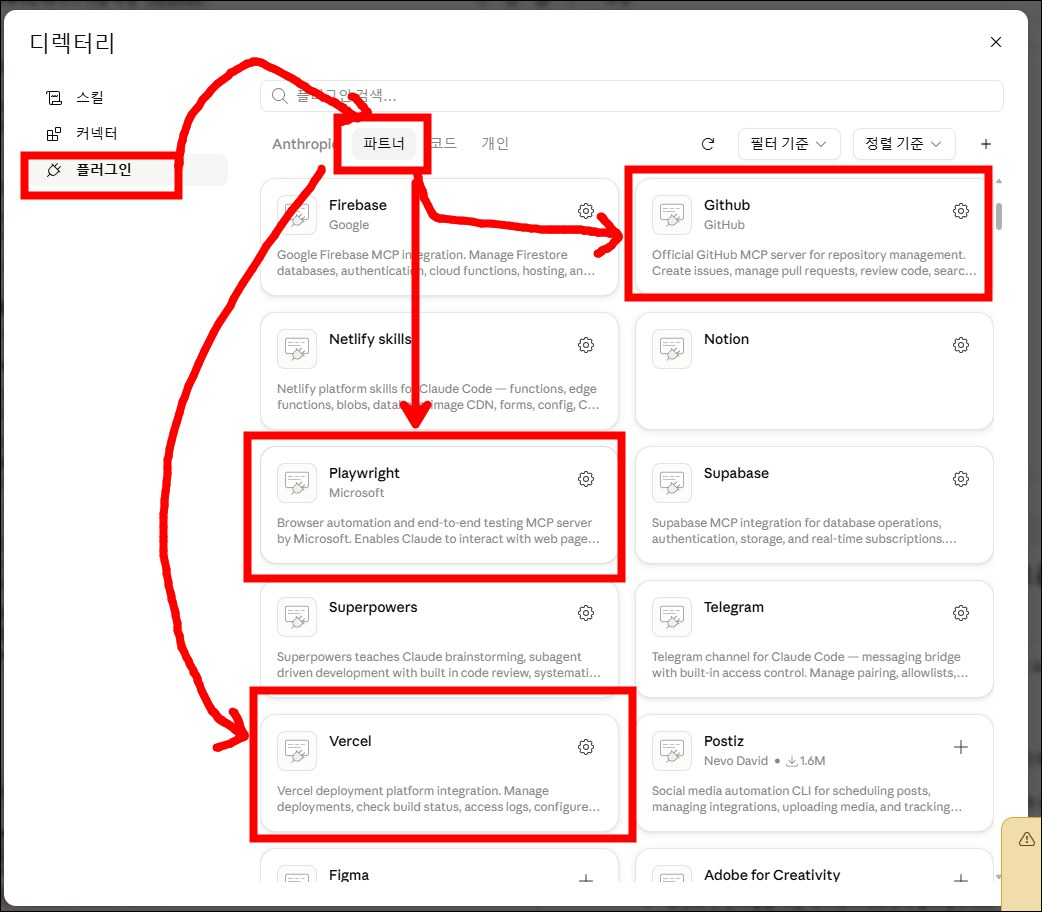
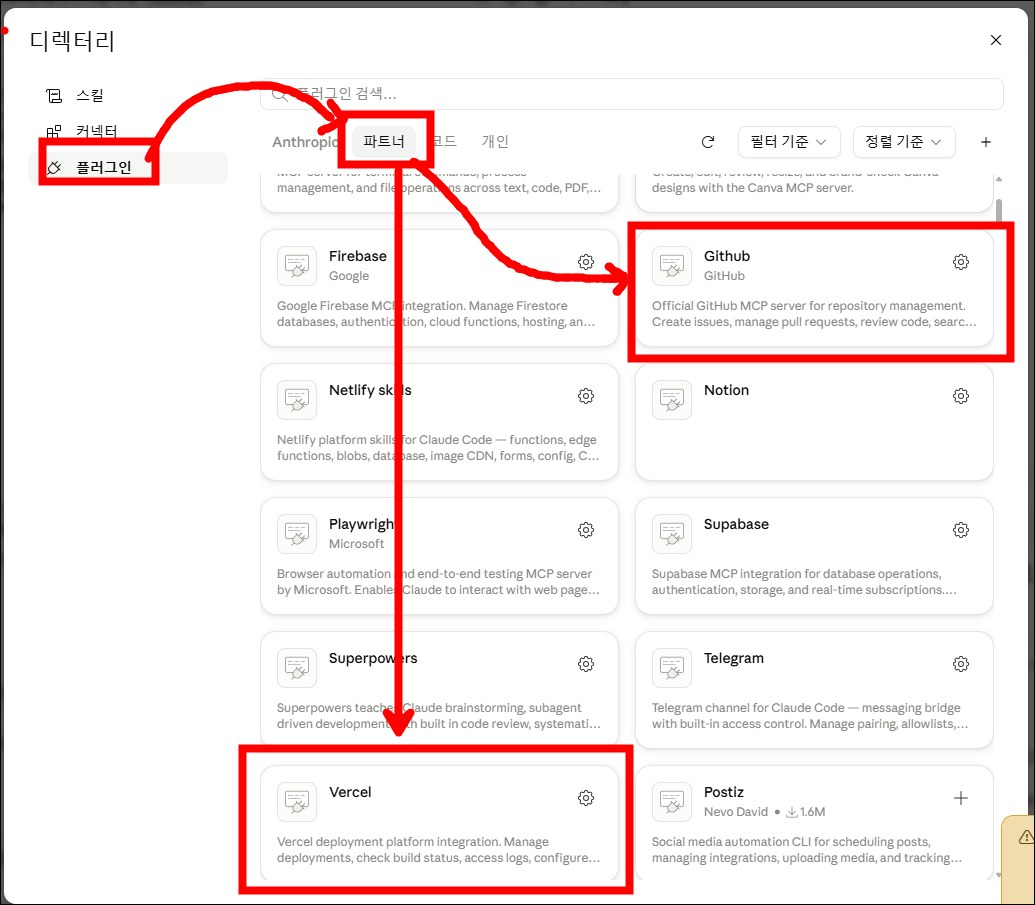
chore: 플러그인 화면 이미지 교체 (GitHub·Vercel 만 강조)

diff --git a/deck.js b/deck.js
@@ -212,7 +212,7 @@ window.DECK = [
   { type:"shot", sec:"02. Claude",
     img:"cx_plugins", url:"Claude Desktop → 설정 → 플러그인 → 파트너",
     title:"플러그인 활성화 — GitHub · Vercel 두 개만",
-    caption:"<b>디렉터리 → 플러그인 → 파트너</b> 탭에서 <b>Github</b> 와 <b>Vercel</b> 을 설치합니다. 가운데 <b>Playwright</b> 는 <b>설치하지 마세요.</b>",
+    caption:"<b>디렉터리 → 플러그인 → 파트너</b> 탭에서 빨간 테두리 두 개 — <b>Github</b> 와 <b>Vercel</b> — 만 설치합니다.",
     steps:[
       "설정 <b>디렉터리</b> → 왼쪽 <b>플러그인</b>",
       "위쪽 <b>파트너</b> 탭 선택",
